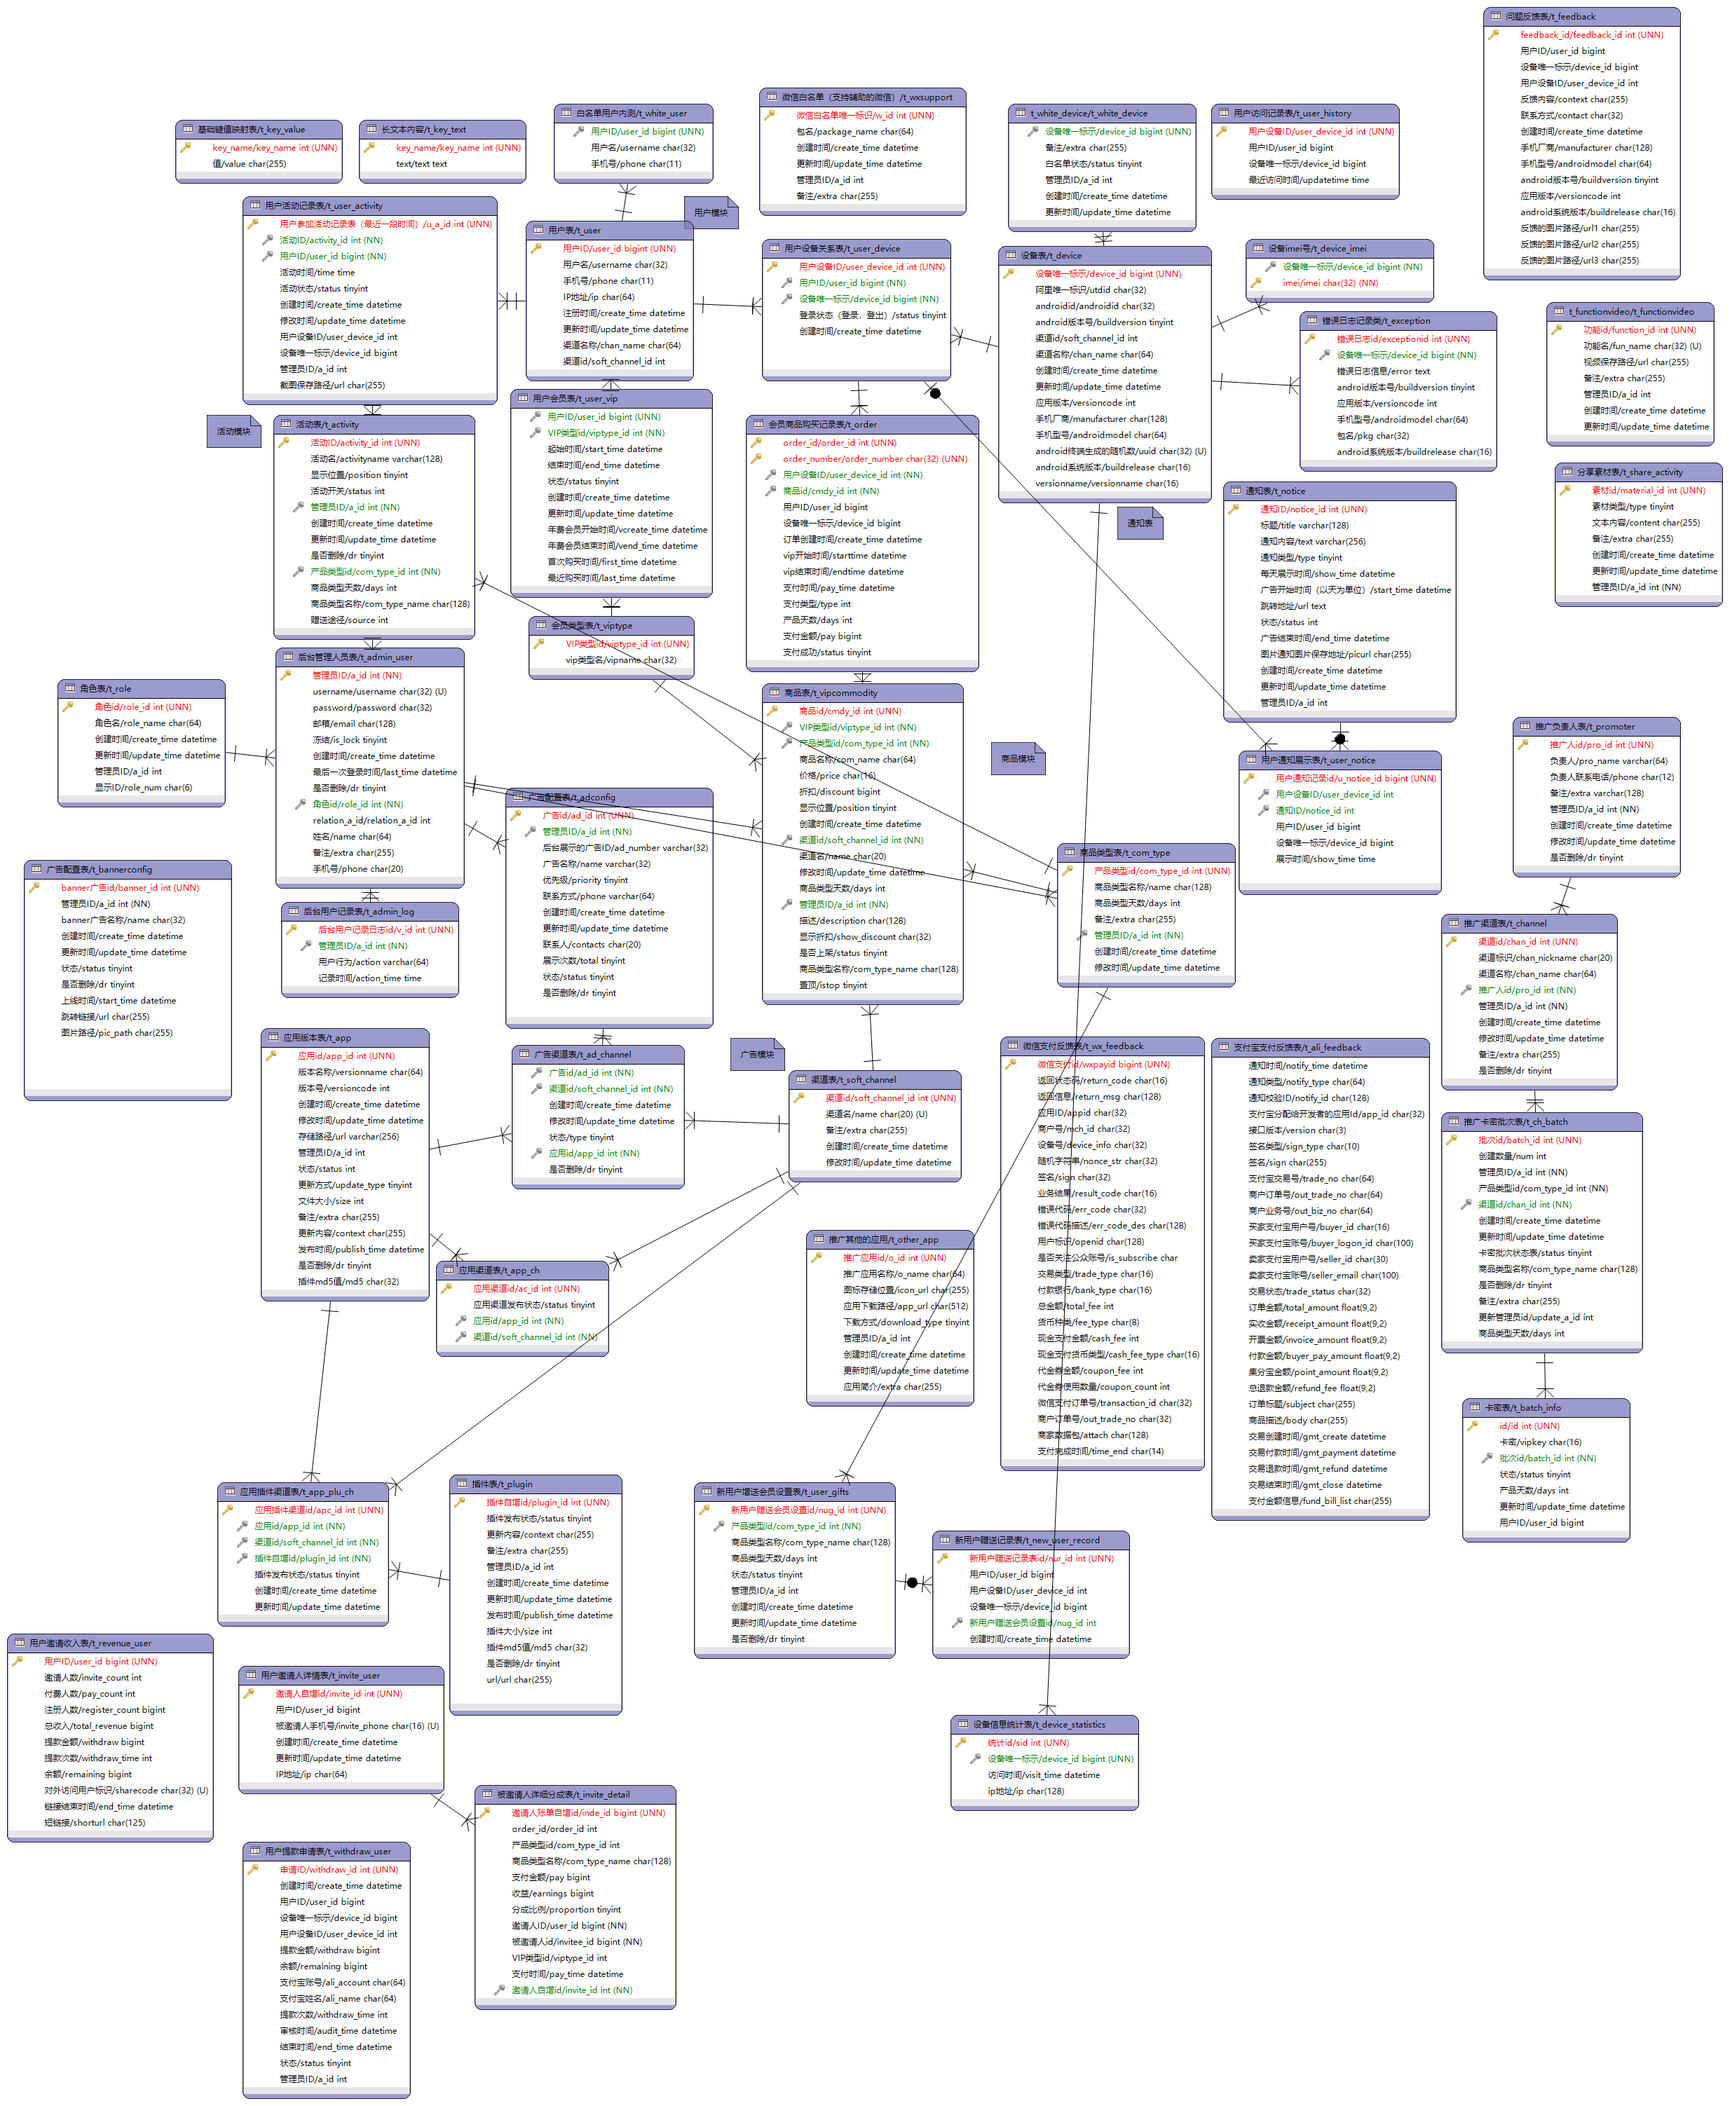
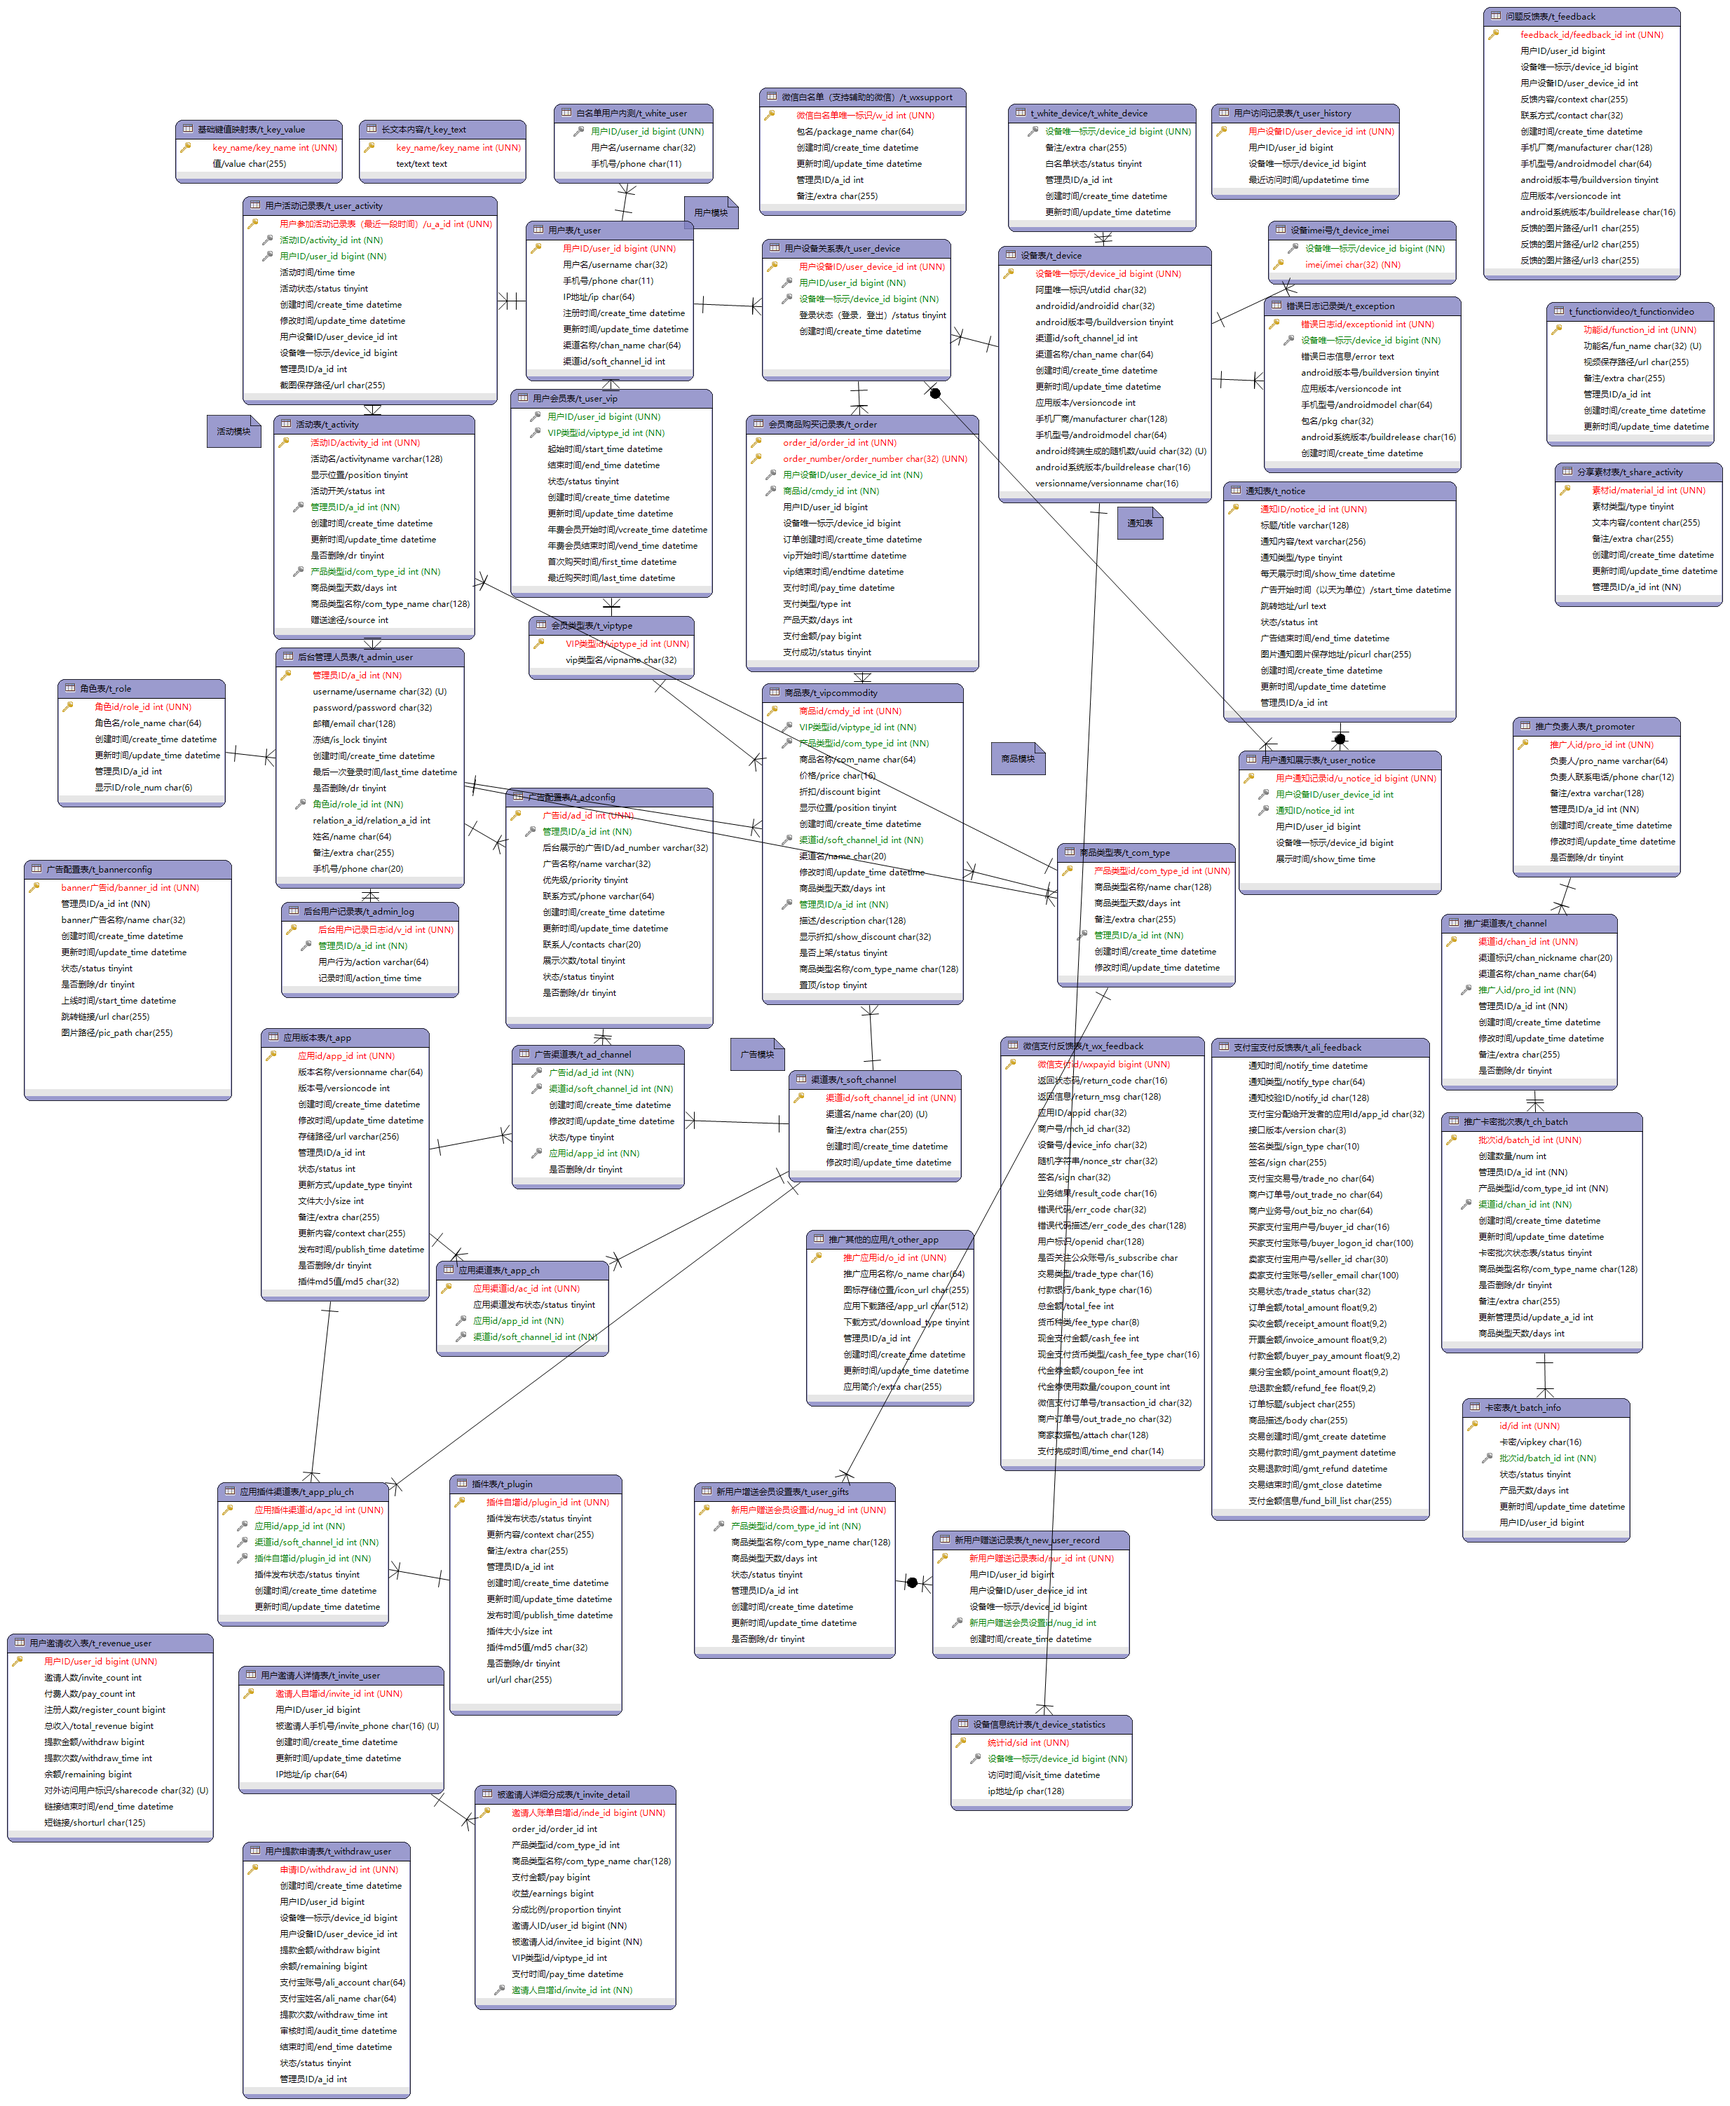
修改t_exception表

Changed region(s): [[0.7176, 0.0928, 0.8736, 0.2166], [0.8424, 0.2166, 0.8736, 0.2476], [0.7176, 0.2166, 0.7488, 0.2476]]

diff --git a/smartserver/src/main/java/com/rpa/server/pojo/ExceptionPO.java b/smartserver/src/main/java/com/rpa/server/pojo/ExceptionPO.java
@@ -1,6 +1,7 @@
 package com.rpa.server.pojo;
 
 import java.io.Serializable;
+import java.util.Date;
 
 /**
  * t_exception
@@ -23,6 +24,8 @@ public class ExceptionPO implements Serializable {
     private String pkg;
 
     private String buildrelease;
+
+    private Date createTime;
 
     private String error;
 
@@ -84,6 +87,14 @@ public class ExceptionPO implements Serializable {
         this.buildrelease = buildrelease;
     }
 
+    public Date getCreateTime() {
+        return createTime;
+    }
+
+    public void setCreateTime(Date createTime) {
+        this.createTime = createTime;
+    }
+
     public String getError() {
         return error;
     }
@@ -111,6 +122,7 @@ public class ExceptionPO implements Serializable {
             && (this.getAndroidmodel() == null ? other.getAndroidmodel() == null : this.getAndroidmodel().equals(other.getAndroidmodel()))
             && (this.getPkg() == null ? other.getPkg() == null : this.getPkg().equals(other.getPkg()))
             && (this.getBuildrelease() == null ? other.getBuildrelease() == null : this.getBuildrelease().equals(other.getBuildrelease()))
+            && (this.getCreateTime() == null ? other.getCreateTime() == null : this.getCreateTime().equals(other.getCreateTime()))
             && (this.getError() == null ? other.getError() == null : this.getError().equals(other.getError()));
     }
 
@@ -125,6 +137,7 @@ public class ExceptionPO implements Serializable {
         result = prime * result + ((getAndroidmodel() == null) ? 0 : getAndroidmodel().hashCode());
         result = prime * result + ((getPkg() == null) ? 0 : getPkg().hashCode());
         result = prime * result + ((getBuildrelease() == null) ? 0 : getBuildrelease().hashCode());
+        result = prime * result + ((getCreateTime() == null) ? 0 : getCreateTime().hashCode());
         result = prime * result + ((getError() == null) ? 0 : getError().hashCode());
         return result;
     }
@@ -142,6 +155,7 @@ public class ExceptionPO implements Serializable {
         sb.append(", androidmodel=").append(androidmodel);
         sb.append(", pkg=").append(pkg);
         sb.append(", buildrelease=").append(buildrelease);
+        sb.append(", createTime=").append(createTime);
         sb.append(", error=").append(error);
         sb.append(", serialVersionUID=").append(serialVersionUID);
         sb.append("]");
